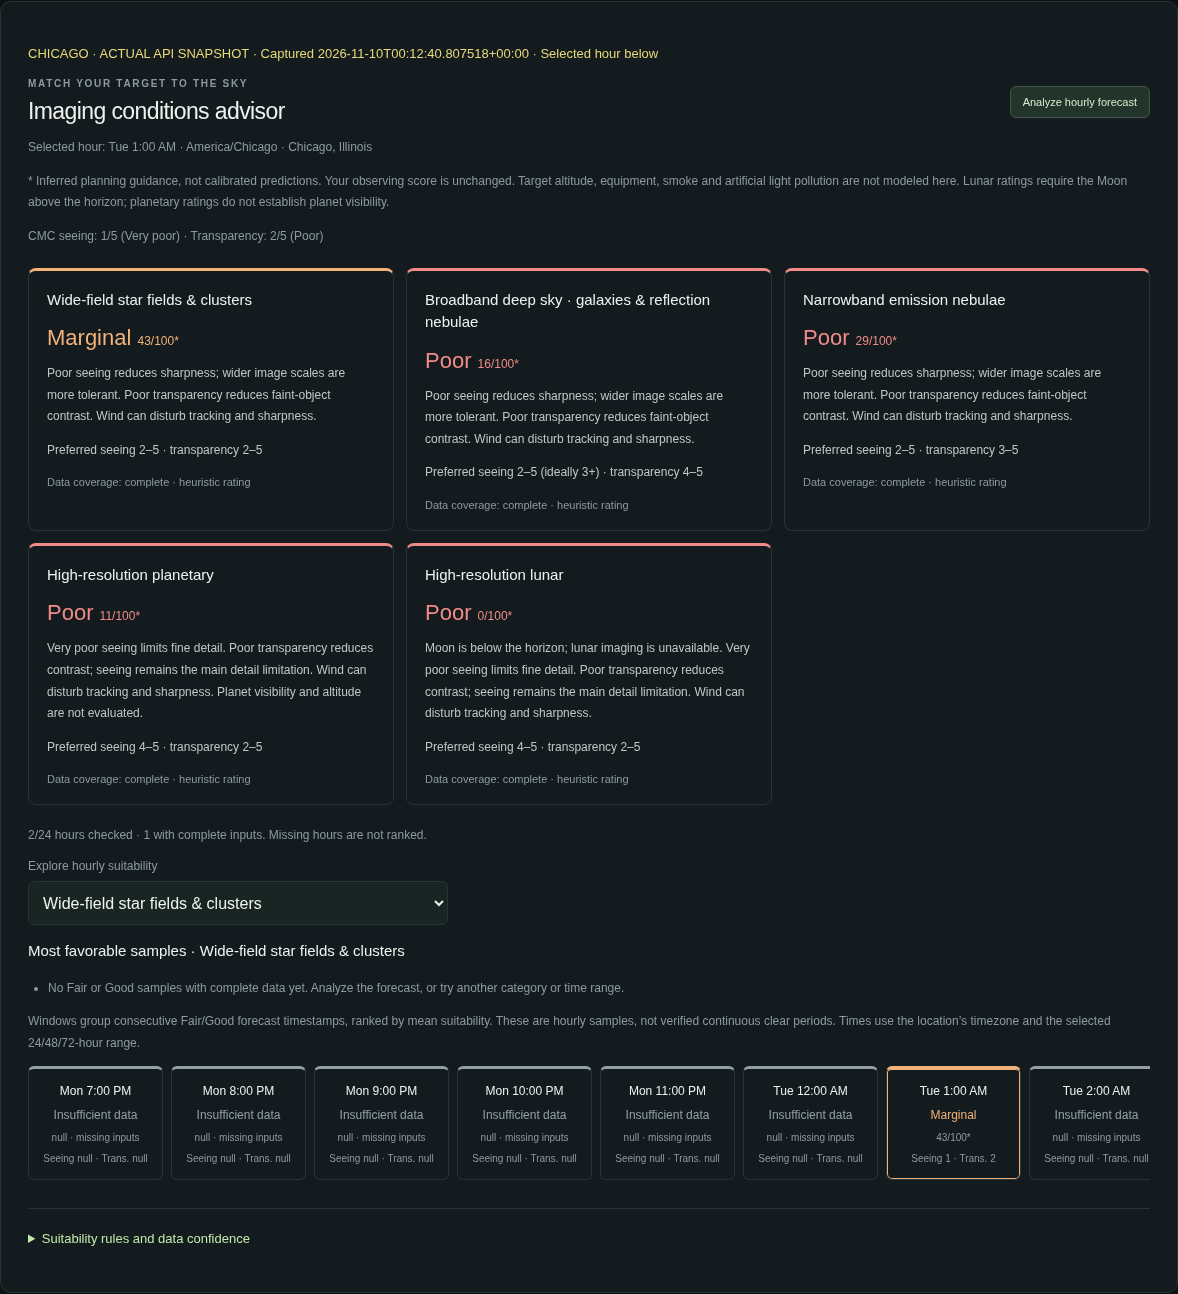
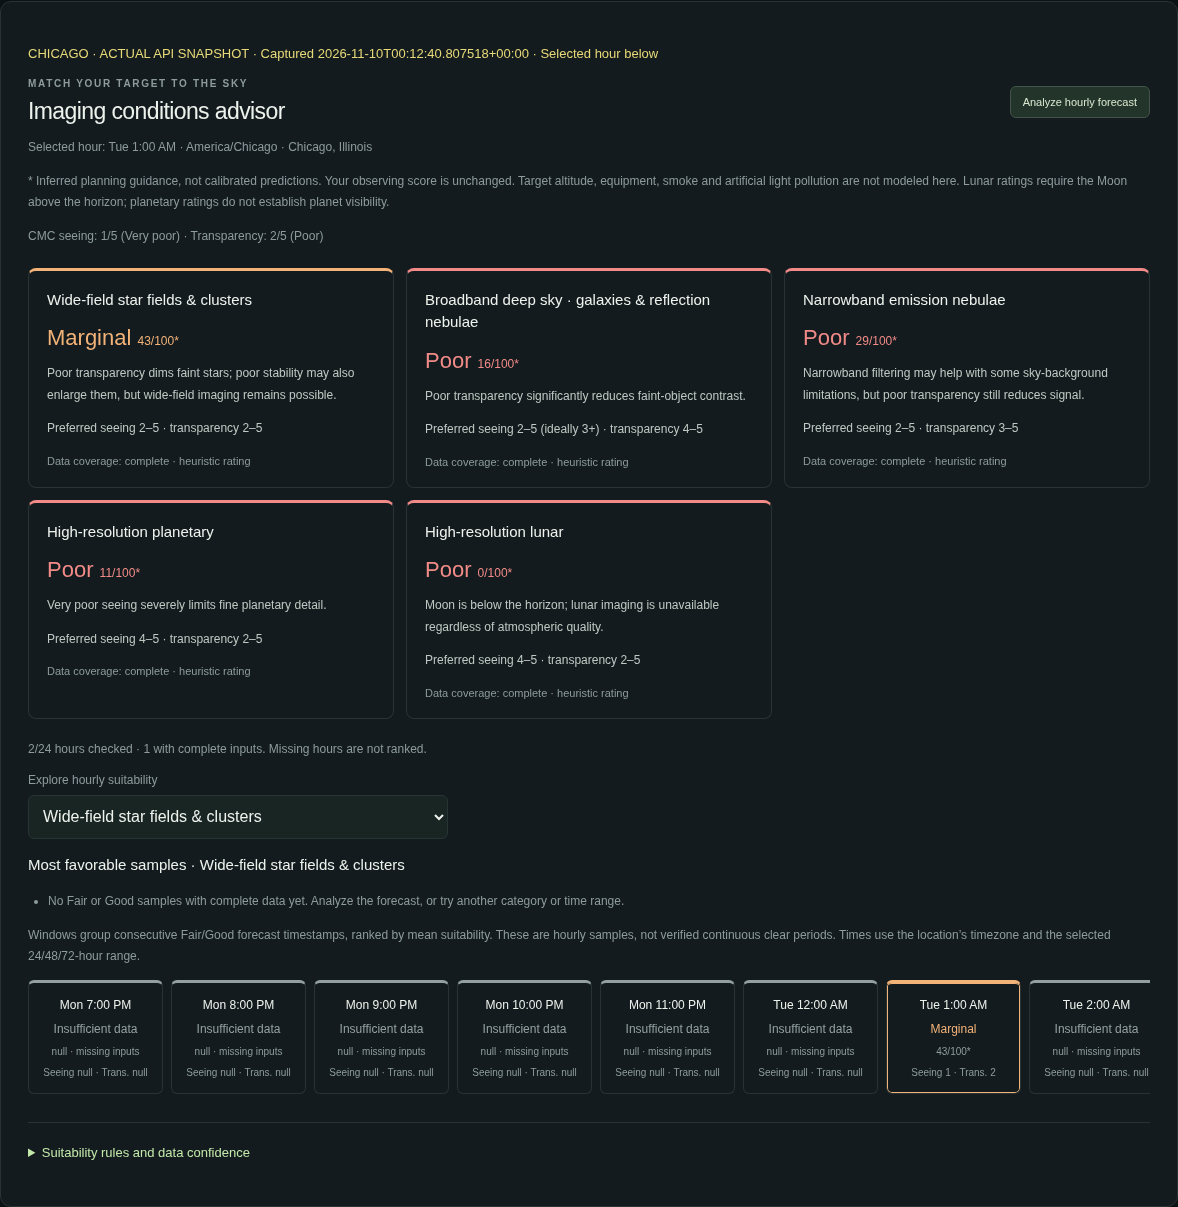
Explain dominant imaging limitations with category-specific guidance

Changed region(s): [[0.0306, 0.0307, 0.9779, 0.9196], [0.6723, 0.2146, 0.9168, 0.3985], [0.0306, 0.9503, 0.2139, 0.9809]]

diff --git a/dist/imaging-advisor.js b/dist/imaging-advisor.js
@@ -26,34 +26,47 @@ const valid=v=>typeof v==='number'&&Number.isFinite(v);
 function curve(points,x){if(x<=points[0][0])return points[0][1];for(let i=1;i<points.length;i++){const [a,b]=points[i-1],[c,d]=points[i];if(x<=c)return b+(d-b)*(x-a)/(c-a)}return points.at(-1)[1]}
 function band(score,c=config){return !valid(score)?'unavailable':score>=c.bands.good?'good':score>=c.bands.fair?'fair':score>=c.bands.marginal?'marginal':'poor'}
 const labels={good:'Good',fair:'Fair',marginal:'Marginal',poor:'Poor',unavailable:'Insufficient data'};
+// Explain the largest recoverable score loss, without changing any scoring rules.
+function explain(id,h,spec,components,atmospheric,modifiers){
+ if(spec.moonRequired&&h.moonAlt<=0)return {dominantLimitation:'visibility',explanation:'Moon is below the horizon; lunar imaging is unavailable regardless of atmospheric quality.'};
+ if(h.seeing===0||h.transparency===0)return {dominantLimitation:'cmcCloud',explanation:'CMC predicts a cloudy sky, limiting '+({wide:'wide-field star images',broadband:'faint broadband exposures',narrowband:'narrowband nebula signal',planetary:'planetary detail',lunar:'lunar detail'}[id])+'.'};
+ const product=Object.values(modifiers).reduce((a,b)=>a*b,1);
+ const losses=[['seeing',(100-components.seeing)*spec.weights.seeing*product],['transparency',(100-components.transparency)*spec.weights.transparency*product]];
+ for(const [key,factor] of Object.entries(modifiers)){
+  const others=Object.entries(modifiers).filter(([name])=>name!==key).reduce((n,[,v])=>n*v,1);
+  losses.push([key,atmospheric*(1-factor)*others]);
+ }
+ const [dominant,loss]=losses.sort((a,b)=>b[1]-a[1])[0];
+ // Small departures from ideal do not warrant declaring a dominant limitation.
+ if(loss<5&&atmospheric>=90&&Object.values(modifiers).every(v=>v>=.95)){const favorable={wide:'Clear skies favor wide-field star fields and clusters.',broadband:'Clear, transparent skies favor faint broadband structure.',narrowband:'Transparent skies favor emission-nebula signal through narrowband filters.',planetary:'Steady seeing favors fine planetary detail; confirm planet visibility.',lunar:'Steady seeing favors detail on the visible Moon.'};return {dominantLimitation:null,explanation:favorable[id]};}
+ const seeing=h.seeing===1?'Very poor':h.seeing===2?'Poor':h.seeing===3?'Average':'Less-than-excellent';
+ const transparency=h.transparency<=2?'Poor':h.transparency===3?'Average':'Less-than-excellent';
+ const atmosphericText={
+  wide:{seeing:'Poor atmospheric stability may enlarge stars, but wide-field imaging remains possible.',transparency:transparency+' transparency dims faint stars'+(h.seeing<=2?'; poor stability may also enlarge them': '')+', but wide-field imaging remains possible.'},
+  broadband:{seeing:seeing+' seeing blurs small galaxy and nebula structure.',transparency:transparency+' transparency significantly reduces faint-object contrast.'},
+  narrowband:{seeing:seeing+' seeing softens emission-nebula detail, especially at smaller image scales.',transparency:'Narrowband filtering may help with some sky-background limitations, but '+transparency.toLowerCase()+' transparency still reduces signal.'},
+  planetary:{seeing:seeing+' seeing '+(h.seeing<=2?'severely limits':'limits')+' fine planetary detail.',transparency:transparency+' transparency reduces planetary contrast, even when seeing is steady.'},
+  lunar:{seeing:seeing+' seeing '+(h.seeing<=2?'severely limits':'limits')+' fine lunar detail.',transparency:transparency+' transparency reduces lunar contrast despite the Moon being visible.'}
+ };
+ const subjects={wide:'wide-field star images',broadband:'faint broadband exposures',narrowband:'narrowband nebula exposures',planetary:'fine planetary detail',lunar:'fine lunar detail'},subject=subjects[id];
+ const environmental={cloud:'Cloud cover is the main limitation for '+subject+'.',cmcCloud:'CMC predicts a cloudy sky, limiting '+subject+'.',wind:'Wind is the main risk to '+subject+(spec.detail?' through image shake.':' through tracking errors and enlarged stars.'),dew:'Dew/frost risk is the main equipment limitation for '+subject+'; use dew protection and monitor optics.',night:'Twilight or daylight is the main sky-background limitation for '+subject+'.',moon:'Moonlight is the main sky-background limitation for '+subject+(id==='narrowband'?'; narrowband filters help, but do not eliminate it.':'.'),moonAltitude:'Low Moon altitude is the main limitation to fine lunar detail.'};
+ return {dominantLimitation:dominant,explanation:atmosphericText[id][dominant]||environmental[dominant]};
+}
 function analyze(h={},c=config){
  h=h||{};
  const ranges={seeing:[0,5],transparency:[0,5],cloud:[0,100],wind:[0,Infinity],humidity:[0,100],temp:[-Infinity,Infinity],dew:[-Infinity,Infinity],moonIllum:[0,1],moonAlt:[-90,90],sun:[-90,90]};
  const missing=Object.keys(ranges).filter(k=>!valid(h[k])||h[k]<ranges[k][0]||h[k]>ranges[k][1]||(['seeing','transparency'].includes(k)&&!Number.isInteger(h[k])));
  return Object.entries(c.categories).map(([id,spec])=>{
   const base={id,label:spec.label,missing:[...missing],confidence:missing.length?'insufficient':'complete'};
-  if(missing.length)return {...base,score:null,band:'unavailable',rating:labels.unavailable,explanation:'Missing or invalid '+missing.join(', ')+'. No suitability rating is inferred.'};
+  if(missing.length)return {...base,score:null,band:'unavailable',rating:labels.unavailable,dominantLimitation:spec.moonRequired&&valid(h.moonAlt)&&h.moonAlt<=0?'visibility':'missing',explanation:(spec.moonRequired&&valid(h.moonAlt)&&h.moonAlt<=0?'Moon is below the horizon; lunar imaging is unavailable regardless of atmospheric quality. ':'')+'Missing or invalid '+missing.join(', ')+'. Atmospheric confidence is incomplete; no suitability rating is inferred.'};
   const components={seeing:spec.seeing[h.seeing],transparency:spec.transparency[h.transparency]};
   const atmospheric=components.seeing*spec.weights.seeing+components.transparency*spec.weights.transparency;
   const modifiers={cloud:curve(c.curves.cloud,h.cloud),wind:curve(c.curves.wind,h.wind),dew:Math.min(curve(c.curves.humidity,h.humidity),curve(c.curves.spread,h.temp-h.dew)),cmcCloud:c.cmcCloudFactor[h.seeing]*c.cmcCloudFactor[h.transparency],night:spec.detail?1:curve(c.curves.night,h.sun),moon:spec.moonFloor===undefined||h.moonAlt<=0?1:1-(1-spec.moonFloor)*h.moonIllum,moonAltitude:spec.moonRequired&&h.moonAlt>0&&h.moonAlt<c.lowMoonAltitude?c.lowMoonFactor:1};
   let raw=atmospheric*Object.values(modifiers).reduce((a,b)=>a*b,1);
-  const reasons=[];
-  if(spec.moonRequired&&h.moonAlt<=0){raw=0;reasons.push('Moon is below the horizon; lunar imaging is unavailable.');}
-  if(h.cloud>=30)reasons.push('Cloud cover limits usable exposures.');
-  if(h.seeing===0||h.transparency===0)reasons.push('CMC indicates a cloudy sky.');
-  if(h.seeing>0&&h.seeing<=2)reasons.push(spec.detail?(h.seeing===1?'Very poor seeing limits fine detail.':'Poor seeing limits fine detail.'):'Poor seeing reduces sharpness; wider image scales are more tolerant.');
-  if(h.transparency>0&&h.transparency<=2)reasons.push(spec.detail?'Poor transparency reduces contrast; seeing remains the main detail limitation.':'Poor transparency reduces faint-object contrast.');
-  if(h.seeing===3&&spec.detail)reasons.push('Average seeing limits fine detail; seeing 4–5 is preferred.');
-  if(h.transparency===3&&id==='broadband')reasons.push('Average transparency limits broadband contrast; transparency 4–5 is preferred.');
-  if(h.wind>=15)reasons.push('Wind can disturb tracking and sharpness.');
-  if(h.humidity>=85||h.temp-h.dew<=3)reasons.push('Humidity or a small dew-point spread raises dew/frost risk; use dew protection.');
-  if(!spec.detail&&h.sun>-18)reasons.push('Twilight or daylight reduces deep-sky contrast.');
-  if(!spec.detail&&h.moonAlt>0&&h.moonIllum>=.4)reasons.push(id==='narrowband'?'Narrowband is more tolerant of moonlight; clouds and haze still matter.':'Moonlight reduces faint-object contrast.');
-  if(!reasons.length)reasons.push(spec.detail?'Good or excellent seeing and low cloud favor fine detail.':h.sun<=-18&&(h.moonAlt<=0||h.moonIllum<.2)?'Excellent darkness and clear air favor deep-sky imaging.':'Clear air favors imaging; check target position.');
-  if(id==='planetary')reasons.push('Planet visibility and altitude are not evaluated.');
-  if(modifiers.moonAltitude<1)reasons.push('Low Moon altitude may soften detail.');
+  if(spec.moonRequired&&h.moonAlt<=0)raw=0;
+  const reason=explain(id,h,spec,components,atmospheric,modifiers);
   const score=Math.round(Math.max(0,Math.min(100,raw))),quality=band(score,c);
-  return {...base,score,band:quality,rating:labels[quality],explanation:reasons.join(' '),components,atmospheric,modifiers};
+  return {...base,score,band:quality,rating:labels[quality],...reason,components,atmospheric,modifiers};
  });
 }
 // Windows contain consecutive forecast samples, not guaranteed continuous conditions.

diff --git a/docs/imaging-advisor.md b/docs/imaging-advisor.md
@@ -84,6 +84,14 @@ These curves and weights are the proposed first-pass matrix, **not a universal a
 
 Narrowband's relative tolerance to artificial light is a general property; no light-pollution correction is computed here. Equipment, tracking, planet/target altitude and visibility (except Moon), atmospheric dispersion, filters, local smoke/aerosols and optical-surface temperature are not included. A daytime planetary rating describes atmospheric quality, not safe target visibility or solar observing instructions.
 
+## Category-specific explanations
+
+Each card shows one concise explanation of its dominant limitation, rather than a shared list of every adverse input. Lunar horizon eligibility takes priority, even when atmospheric data is incomplete. CMC zero is explicitly explained as modeled cloud. Missing-data explanations retain the incomplete confidence notice.
+
+For complete inputs, rank the score recoverable by improving each driver independently: seeing/transparency utilities to 100, or one environmental modifier to 1, holding the others fixed. This is an explanatory comparison, **not a change to any score or weight**. Ties use stable seeing/transparency/modifier order. When the largest recoverable loss is <5 points, atmospheric quality is ≥90 and every modifier is ≥.95, show a category-specific favorable summary instead of declaring a material limitation. Favorable wording is never used for modeled cloud.
+
+The wording describes stars for wide-field, faint-object contrast for broadband, filtered emission signal for narrowband, and fine planetary/lunar detail for high-resolution work. Cloud, wind, dew, Moon background, twilight and low lunar altitude can take precedence when their recoverable score loss is greater. General planet visibility limitations remain visible in the panel's introductory note.
+
 ## Hourly analysis and request behavior
 
 The selected hour uses existing lazy CMC requests. “Analyze hourly forecast” explicitly loads the selected 24/48/72 timestamps, two provider fields per hour, through the existing two-request concurrency limiter and exact-time/run cache. It does not request new weather sources or modify the observing score. Progress distinguishes hours checked from hours with complete inputs. Analysis can be stopped; changing location or horizon stops scheduling further hours. An in-flight request may finish and populate only its original hour/location. Selected-hour and analysis requests share a per-hour promise. Provider failures remain null.
